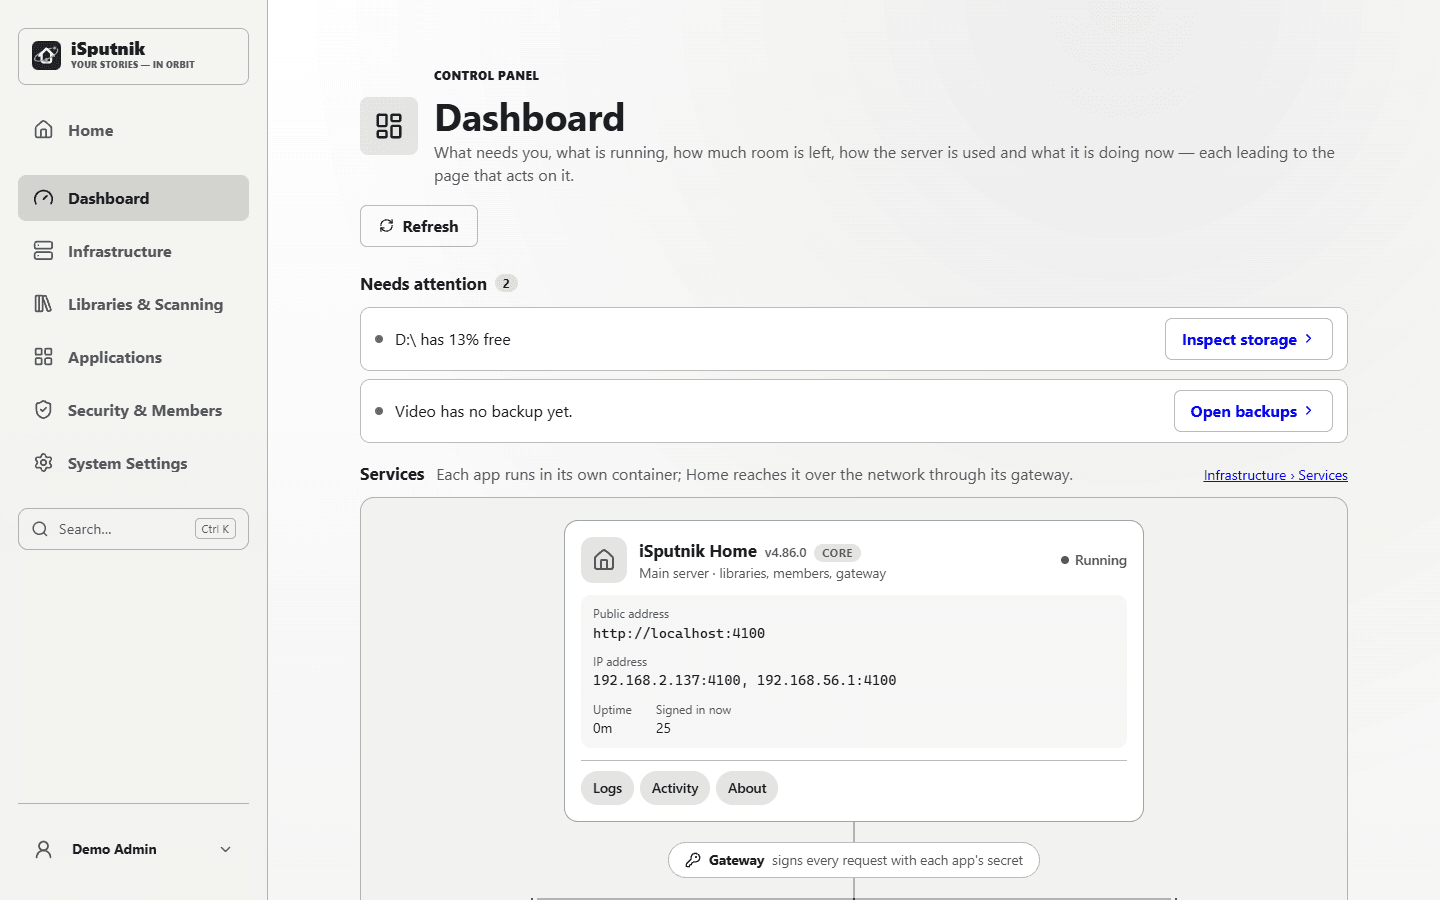
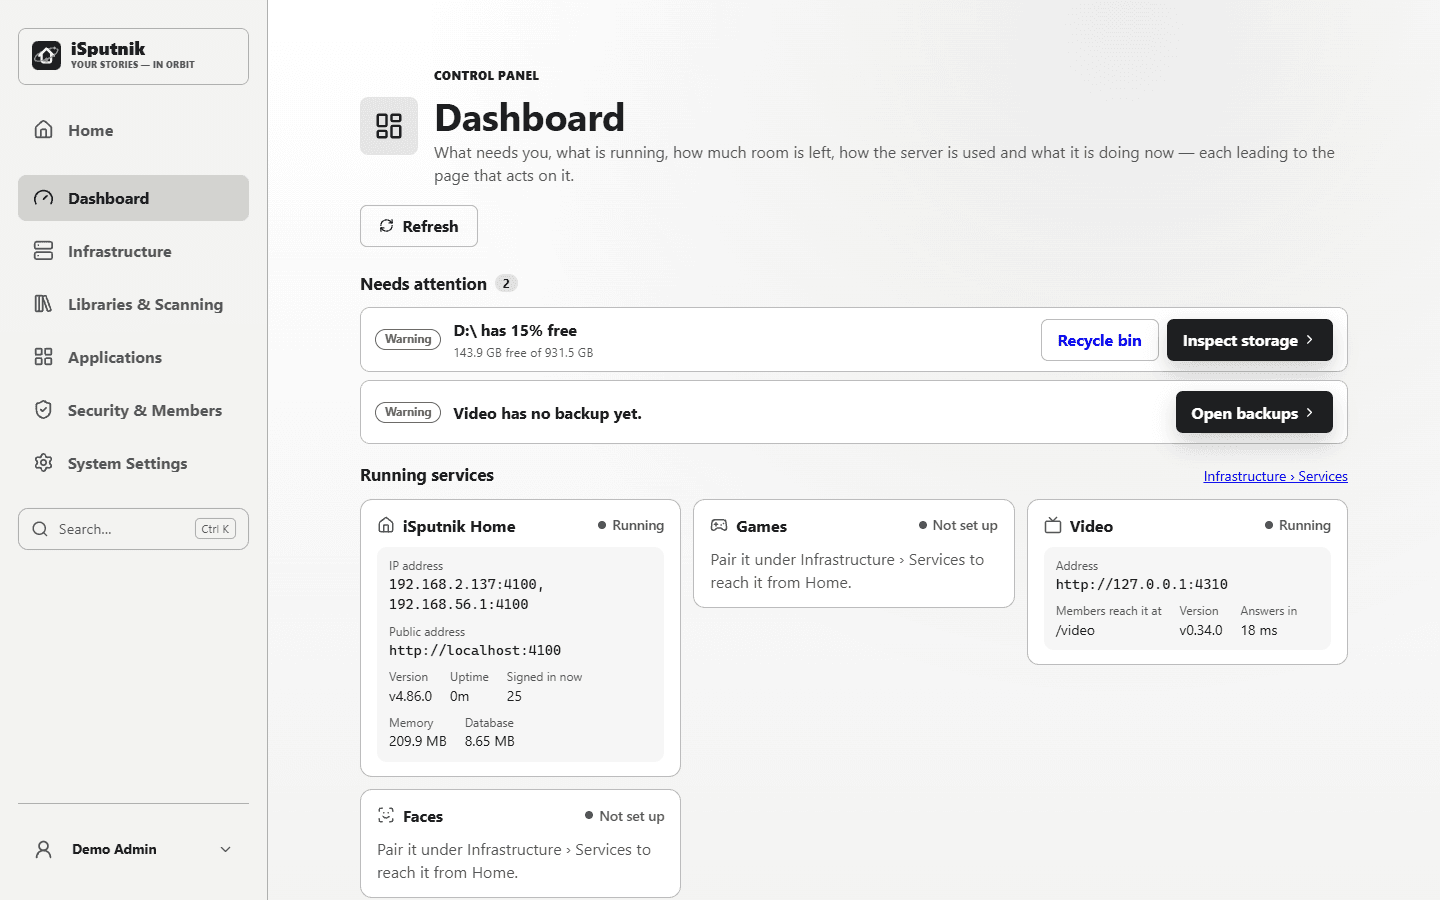
feat(control): Dashboard service tiles with addresses; diagram moves to Services
Running services on the Dashboard is a tile per service, like the mockup: its
state, version and where it is - iSputnik's network addresses with the port and
its public address, uptime, sign-ins, memory and database; a container's
address, the path members use, version and response time. A tile opens that
service's card on Infrastructure > Services, which now opens with the
connection diagram ("How they connect"). Needs attention rows carry a severity,
a title with a detail line, and a second action where there is one (a
container's Logs, the Recycle bin for a full drive, Blocked IPs after failed
sign-ins).

diff --git a/apps/web/src/features/control/sections/dashboard/Overview.tsx b/apps/web/src/features/control/sections/dashboard/Overview.tsx
@@ -2,12 +2,9 @@ import { useTranslation } from "react-i18next";
 import {
   Archive,
   ChevronRight,
-  Clock3,
-  Database,
   Gamepad2,
   House,
   KeyRound,
-  MemoryStick,
   ScanFace,
   Tv,
   type LucideIcon
@@ -102,10 +99,15 @@ const folderNames = (group: DiskGroup) => [...new Set(group.folders.map((folder)
 
 interface Issue {
   tone: Tone;
+  /** The row's bold line: what is wrong. */
   text: string;
+  /** One line under it: the number or the place that says how bad. */
+  detail?: string;
   href: string;
   /** The button that acts on it: "Open connection", "Open sign-ins". */
   action: string;
+  /** A second way to deal with it: the logs, the recycle bin, the block list. */
+  second?: { href: string; label: string };
 }
 
 export function Overview({
@@ -132,8 +134,8 @@ export function Overview({
   const issues: Issue[] = [];
   for (const app of apps ?? []) {
     const state = appState(app);
-    if (state === "down") issues.push({ tone: "danger", text: t("controlDash:overview.issueAppDown", { app: appName(app.id) }), href: appPageHref("appsSetup", app.id), action: t("controlDash:dashboard.actionConnection") });
-    if (state === "secret") issues.push({ tone: "danger", text: t("controlDash:overview.issueAppSecret", { app: appName(app.id) }), href: appPageHref("appsSetup", app.id), action: t("controlDash:dashboard.actionConnection") });
+    if (state === "down") issues.push({ tone: "danger", text: t("controlDash:overview.issueAppDown", { app: appName(app.id) }), href: appPageHref("appsSetup", app.id), action: t("controlDash:dashboard.actionConnection"), detail: app.url ? t("controlDash:dashboard.detailAppDown", { url: app.url }) : undefined, second: { href: logsHref({ app: app.id }), label: t("controlDash:dashboard.actionLogs") } });
+    if (state === "secret") issues.push({ tone: "danger", text: t("controlDash:overview.issueAppSecret", { app: appName(app.id) }), href: appPageHref("appsSetup", app.id), action: t("controlDash:dashboard.actionConnection"), second: { href: logsHref({ app: app.id }), label: t("controlDash:dashboard.actionLogs") } });
   }
   const disks = groupDisks(overview, appDisks);
   for (const disk of disks) {
@@ -143,7 +145,9 @@ export function Overview({
         tone,
         text: t("controlDash:overview.issueDiskLow", { mount: folderNames(disk), share: Math.round((disk.freeBytes / disk.totalBytes) * 100) }),
         href: storageHref(),
-        action: t("controlDash:dashboard.actionStorage")
+        action: t("controlDash:dashboard.actionStorage"),
+        detail: t("controlDash:dashboard.detailDisk", { free: formatBytes(disk.freeBytes), total: formatBytes(disk.totalBytes) }),
+        second: { href: controlHref("recycleBin"), label: t("controlDash:dashboard.actionRecycle") }
       });
     }
   }
@@ -163,14 +167,14 @@ export function Overview({
     }
   }
   if (overview && overview.failedTasks24h > 0) {
-    issues.push({ tone: "warning", text: t("controlDash:overview.issueFailedTasks", { count: overview.failedTasks24h }), href: tasksHref({ status: "failed" }), action: t("controlDash:dashboard.actionTasks") });
+    issues.push({ tone: "warning", text: t("controlDash:overview.issueFailedTasks", { count: overview.failedTasks24h }), href: tasksHref({ status: "failed" }), action: t("controlDash:dashboard.actionTasks"), detail: t("controlDash:dashboard.detailLastDay") });
   }
   for (const app of apps ?? []) {
     const errors = appErrors[app.id];
-    if (errors) issues.push({ tone: "warning", text: t("controlDash:overview.issueAppErrors", { app: appName(app.id), count: errors }), href: logsHref({ app: app.id, level: "error" }), action: t("controlDash:dashboard.actionLogs") });
+    if (errors) issues.push({ tone: "warning", text: t("controlDash:overview.issueAppErrors", { app: appName(app.id), count: errors }), href: logsHref({ app: app.id, level: "error" }), action: t("controlDash:dashboard.actionLogs"), detail: t("controlDash:dashboard.detailLastDay") });
   }
   if (overview && overview.failedSignIns24h >= FAILED_SIGN_INS_NOTICE) {
-    issues.push({ tone: "warning", text: t("controlDash:overview.issueFailedSignIns", { count: overview.failedSignIns24h }), href: signInsHref({}), action: t("controlDash:dashboard.actionSignIns") });
+    issues.push({ tone: "warning", text: t("controlDash:overview.issueFailedSignIns", { count: overview.failedSignIns24h }), href: signInsHref({}), action: t("controlDash:dashboard.actionSignIns"), detail: t("controlDash:dashboard.detailLastDay"), second: { href: controlHref("securityBlocked"), label: t("controlDash:dashboard.actionBlocked") } });
   }
   issues.sort((a, b) => (a.tone === b.tone ? 0 : a.tone === "danger" ? -1 : 1));
 
@@ -199,12 +203,24 @@ export function Overview({
           <ul className="dash-attention">
             {issues.map((issue) => (
               <li key={issue.text}>
-                <span className={`dash-dot tone-${issue.tone}`} aria-hidden="true" />
-                <span className="dash-issue-text">{issue.text}</span>
-                <a href={issue.href} className="secondary-button compact-button" onClick={(event) => followRoute(event, issue.href)}>
-                  {issue.action}
-                  <ChevronRight size={15} aria-hidden="true" />
-                </a>
+                <span className={`dash-severity tone-${issue.tone}`}>
+                  {issue.tone === "danger" ? t("controlDash:dashboard.severity.urgent") : t("controlDash:dashboard.severity.warning")}
+                </span>
+                <span className="dash-issue-text">
+                  <strong>{issue.text}</strong>
+                  {issue.detail && <small>{issue.detail}</small>}
+                </span>
+                <span className="dash-issue-actions">
+                  {issue.second && (
+                    <a href={issue.second.href} className="secondary-button compact-button" onClick={(event) => followRoute(event, issue.second!.href)}>
+                      {issue.second.label}
+                    </a>
+                  )}
+                  <a href={issue.href} className="primary-button compact-button" onClick={(event) => followRoute(event, issue.href)}>
+                    {issue.action}
+                    <ChevronRight size={15} aria-hidden="true" />
+                  </a>
+                </span>
               </li>
             ))}
           </ul>
@@ -215,12 +231,7 @@ export function Overview({
         )}
       </section>
 
-      <Services status={status} overview={overview} apps={apps} />
-      <dl className="dash-stats dash-stats-row">
-        <Stat icon={MemoryStick} label={t("controlDash:system.memory")} value={formatBytes(status.memory.rssBytes)} />
-        <Stat icon={Database} label={t("controlDash:system.database")} value={formatBytes(status.databaseBytes)} />
-        <Stat icon={Clock3} label={t("controlDash:system.uptime")} value={formatUptime(status.uptimeSeconds)} />
-      </dl>
+      <ServiceTiles status={status} overview={overview} apps={apps} />
 
       <section className="dash-section" aria-labelledby="dash-storage">
         <DashSectionHead id="dash-storage" icon={DASH_ICONS.storage} title={t("controlDash:overview.storageTitle")} link={{ href: storageHref(), label: t("controlDash:dashboard.storageSettingsLink") }} />
@@ -259,7 +270,85 @@ export function Overview({
 
 // ── Services: Home, its gateway, a branch per container ──────────────────────
 
-function Services({ status, overview, apps }: { status: SystemStatus; overview: DashboardOverview | null; apps: AppStatus[] | null }) {
+/** The Dashboard's Running services: a tile per service — its state, version, where
+ *  it is (addresses with their ports) and how fast it answers. A tile opens that
+ *  service's card on Infrastructure › Services. */
+function ServiceTiles({ status, overview, apps }: { status: SystemStatus; overview: DashboardOverview | null; apps: AppStatus[] | null }) {
+  const { t } = useTranslation(["common", "controlDash"]);
+  const appName = useAppName();
+  const servicesHref = controlHref("services");
+  const lan = overview?.home.addresses.length
+    ? overview.home.addresses.map((address) => `${address}:${overview.home.port}`).join(", ")
+    : overview ? `:${overview.home.port}` : "…";
+  const homeHref = `${servicesHref}#service-home`;
+  return (
+    <section className="dash-section" aria-labelledby="dash-services">
+      <div className="dash-section-head">
+        <h2 id="dash-services">{t("controlDash:dashboard.servicesTitle")}</h2>
+        <a href={servicesHref} onClick={(event) => followRoute(event, servicesHref)}>{t("controlDash:dashboard.servicesDetail")}</a>
+      </div>
+      <div className="dash-tiles">
+        <a className="dash-tile" href={homeHref} onClick={(event) => followRoute(event, homeHref)}>
+          <span className="dash-tile-head">
+            <House size={18} aria-hidden="true" />
+            <strong>{t("controlDash:overview.homeName")}</strong>
+            <StateLabel tone="success" label={t("controlDash:overview.stateRunning")} />
+          </span>
+          <dl className="dash-facts dash-tile-facts">
+            <Fact label={t("controlDash:overview.ipAddress")} value={lan} line />
+            {overview?.home.publicUrl && <Fact label={t("controlDash:overview.publicAddress")} value={overview.home.publicUrl} line />}
+            <Fact label={t("controlDash:dashboard.version")} value={`v${status.version}`} />
+            <Fact label={t("controlDash:system.uptime")} value={formatUptime(status.uptimeSeconds)} />
+            <Fact label={t("controlDash:overview.signedIn")} value={formatNumber(status.activeSessions)} />
+            <Fact label={t("controlDash:system.memory")} value={formatBytes(status.memory.rssBytes)} />
+            <Fact label={t("controlDash:system.database")} value={formatBytes(status.databaseBytes)} />
+          </dl>
+        </a>
+        {apps === null && <p className="muted">{t("controlDash:overview.appsLoading")}</p>}
+        {(apps ?? []).map((app) => {
+          const state = appState(app);
+          const tone = STATE_TONE[state];
+          const Icon = APP_ICONS[app.id] ?? House;
+          const href = `${servicesHref}#service-${app.id}`;
+          const label = {
+            running: t("controlDash:overview.stateRunning"),
+            down: t("controlDash:overview.stateDown"),
+            secret: t("controlDash:overview.stateSecret"),
+            unset: t("controlDash:overview.stateUnset")
+          }[state];
+          return (
+            <a key={app.id} className={`dash-tile tone-${tone}`} href={href} onClick={(event) => followRoute(event, href)}>
+              <span className="dash-tile-head">
+                <Icon size={18} aria-hidden="true" />
+                <strong>{appName(app.id)}</strong>
+                <StateLabel tone={tone} label={label} />
+              </span>
+              {state === "unset" ? (
+                <span className="muted">{t("controlDash:overview.unsetNote")}</span>
+              ) : (
+                <dl className="dash-facts dash-tile-facts">
+                  <Fact label={t("controlDash:overview.address")} value={app.url ?? "—"} line />
+                  <Fact label={t("controlDash:dashboard.membersReach")} value={app.prefix} />
+                  <Fact label={t("controlDash:dashboard.version")} value={app.server?.version ? `v${app.server.version}` : "—"} />
+                  <Fact
+                    label={t("controlDash:dashboard.answersIn")}
+                    value={app.server?.roundTripMs != null ? `${app.server.roundTripMs} ms` : t("controlDash:overview.branchNoReply")}
+                    tone={app.server?.ok ? undefined : "warning"}
+                  />
+                </dl>
+              )}
+            </a>
+          );
+        })}
+      </div>
+    </section>
+  );
+}
+
+/** Home, its gateway and a branch per container, wired up — how the pieces connect.
+ *  Infrastructure › Services opens with it (control panel v2); the Dashboard keeps
+ *  the compact ServiceTiles below. */
+export function ServicesDiagram({ status, overview, apps, onServicesPage = false }: { status: SystemStatus; overview: DashboardOverview | null; apps: AppStatus[] | null; onServicesPage?: boolean }) {
   const { t } = useTranslation(["common", "controlDash"]);
   const homeAddress = overview?.home.addresses.length
     ? overview.home.addresses.map((address) => `${address}:${overview.home.port}`).join(", ")
@@ -268,9 +357,9 @@ function Services({ status, overview, apps }: { status: SystemStatus; overview: 
   return (
     <section className="dash-section" aria-labelledby="dash-services">
       <div className="dash-section-head">
-        <h2 id="dash-services">{t("controlDash:overview.servicesTitle")}</h2>
+        <h2 id="dash-services">{onServicesPage ? t("controlDash:dashboard.diagramTitle") : t("controlDash:overview.servicesTitle")}</h2>
         <span className="muted">{t("controlDash:overview.servicesNote")}</span>
-        <a href={controlHref("services")}>{t("controlDash:overview.servicesLink")}</a>
+        {!onServicesPage && <a href={controlHref("services")}>{t("controlDash:overview.servicesLink")}</a>}
       </div>
       <div className="dash-diagram">
         <article className="dash-node dash-home">
@@ -431,15 +520,6 @@ function Fact({ label, value, line, tone, title }: { label: string; value: strin
       >
         {value}
       </dd>
-    </div>
-  );
-}
-
-function Stat({ icon: Icon, label, value }: { icon: LucideIcon; label: string; value: string }) {
-  return (
-    <div>
-      <dt><Icon size={14} aria-hidden="true" />{label}</dt>
-      <dd>{value}</dd>
     </div>
   );
 }

diff --git a/apps/web/src/features/control/sections/ServicesSection.tsx b/apps/web/src/features/control/sections/ServicesSection.tsx
@@ -1,4 +1,4 @@
-import { useState } from "react";
+import { useEffect, useState } from "react";
 import { useTranslation } from "react-i18next";
 import { ArrowRight, Server } from "lucide-react";
 import { controlHref, followRoute } from "../../../router";
@@ -9,6 +9,9 @@ import { ControlSectionHead } from "../ControlSectionHead";
 import { appPageHref, logsHref } from "../links";
 import { isRunning, useAppName, useAppsStatus, type AppStatus } from "./AppsSection";
 import { useSystemStatus } from "./dashboard/useSystemStatus";
+import { ServicesDiagram } from "./dashboard/Overview";
+import type { DashboardOverview } from "./dashboard/useDashboardOverview";
+import { api } from "../../../api";
 
 // Infrastructure › Services (control panel v2): one card per service — this server
 // and each container beside it — saying whether it is up, how fast it answers and
@@ -57,6 +60,11 @@ export function ServicesSection() {
   // Which cards have been tested since the page opened: the result shows on them.
   const [tested, setTested] = useState<Record<string, boolean>>({});
   const [testing, setTesting] = useState<string | null>(null);
+  // Home's own addresses and port, for the diagram (the Dashboard reads the same).
+  const [overview, setOverview] = useState<DashboardOverview | null>(null);
+  useEffect(() => {
+    api<DashboardOverview>("/api/dashboard/overview").then(setOverview).catch(() => setOverview(null));
+  }, []);
 
   const test = async (id: string) => {
     setTesting(id);
@@ -77,9 +85,12 @@ export function ServicesSection() {
     <>
       <ControlSectionHead section="services" icon={<Server size={30} />} description={t("control:services.description")} />
       {error && <MessageBox tone="error" title={t("control:services.loadFailed")}>{error}</MessageBox>}
+      {/* How the pieces connect: Home, its gateway and a branch per container (the
+          Dashboard showed this until it took compact tiles instead). */}
+      {status && <ServicesDiagram status={status} overview={overview} apps={apps} onServicesPage />}
 
       <div className="organization-grid">
-        <section className="organization-card app-setup-card">
+        <section className="organization-card app-setup-card" id="service-home">
           <div className="service-card-head">
             <h2>{t("control:services.home")}</h2>
             <span className="app-status-pill is-ready">{t("control:services.state.running")}</span>
@@ -115,7 +126,7 @@ export function ServicesSection() {
           }
           const pairingHref = appPageHref("appsSetup", app.id);
           return (
-            <section key={app.id} className="organization-card app-setup-card">
+            <section key={app.id} id={`service-${app.id}`} className="organization-card app-setup-card">
               <div className="service-card-head">
                 <h2>{appName(app.id)}</h2>
                 <span className={`app-status-pill ${state === "running" ? "is-ready" : state === "unset" ? "is-off" : "is-needsSetup"}`}>

diff --git a/apps/web/src/styles/admin.css b/apps/web/src/styles/admin.css
@@ -3551,3 +3551,52 @@ tr.control-anchor-flash > td {
 
 .service-facts dt { color: var(--muted); }
 .service-facts dd { margin: 0; text-align: right; }
+
+/* Dashboard (control panel v2): Needs attention rows carry a severity, a title with
+   a detail line, and up to two actions. */
+.dash-severity {
+  flex: 0 0 auto;
+  padding: 1px 9px;
+  border: 1px solid var(--tone);
+  border-radius: 999px;
+  color: var(--tone);
+  font-size: var(--text-2xs);
+  font-weight: 700;
+}
+
+.dash-attention .dash-issue-text { display: grid; gap: 2px; }
+.dash-attention .dash-issue-text small { color: var(--muted); font-size: var(--text-xs); }
+.dash-issue-actions { display: flex; flex-wrap: wrap; gap: 8px; }
+.dash-issue-actions a { display: inline-flex; align-items: center; gap: 4px; }
+
+/* Running services: a tile per service, its addresses and ports on it. */
+.dash-tiles {
+  display: grid;
+  grid-template-columns: repeat(auto-fill, minmax(280px, 1fr));
+  gap: 12px;
+}
+
+.dash-tile {
+  display: grid;
+  align-content: start;
+  gap: 10px;
+  min-width: 0;
+  padding: 14px 16px;
+  border: 1px solid var(--line);
+  border-radius: 12px;
+  background: var(--surface-raised);
+  color: inherit;
+  text-decoration: none;
+}
+
+.dash-tile:hover,
+.dash-tile:focus-visible { border-color: var(--accent); outline: 0; }
+
+.dash-tile-head { display: flex; align-items: center; gap: 8px; min-width: 0; }
+.dash-tile-head strong { flex: 1 1 auto; min-width: 0; overflow: hidden; text-overflow: ellipsis; white-space: nowrap; }
+.dash-tile-head > svg { flex: 0 0 auto; color: var(--muted); }
+.dash-tile-facts { gap: 8px 18px; }
+.dash-tile { grid-template-columns: minmax(0, 1fr); }
+/* Addresses are why the tile is there: shown whole, wrapping, never cut. */
+.dash-tile .dash-fact-line dd { white-space: normal; overflow-wrap: anywhere; }
+.dash-tiles { align-items: start; }

diff --git a/docs/users/control-panel.md b/docs/users/control-panel.md
@@ -60,11 +60,16 @@ Five sections, from the top, each leading to the page that acts on it:
 
 1. **Needs attention** — what wants you, worst first: a container down, a drive
    running low, no recent backup, failed tasks, errors in a container's log, a run of
-   failed sign-ins. Each row has the button that deals with it (**Open connection**,
-   **Inspect storage**, **Open backups**…). When nothing does, one line says so.
-2. **Running services** — iSputnik and each container beside it, how they connect
-   and their versions, with the server's memory, database size and uptime. Each card
-   links to its connection and its logs.
+   failed sign-ins. Each row says how urgent it is, what is wrong with a line of detail
+   under it, and the button that deals with it (**Open connection**, **Inspect
+   storage**, **Open backups**…) — with a second where there is one (a container's
+   **Logs**, the **Recycle bin** for a full drive, **Blocked IPs** after failed
+   sign-ins). When nothing needs you, one line says so.
+2. **Running services** — a tile for iSputnik and one for each container. iSputnik's
+   shows its addresses on your network with the port, its public address, version,
+   uptime, how many are signed in, memory and database size; a container's shows the
+   address iSputnik reaches it on, the path members use (`/video`), its version and
+   how fast it answered. A tile opens that service's card on [Services](#services).
 3. **Storage** — one bar per drive. Folders on the same drive, even in different
    containers, share its bar and are named on it, so a drive never appears twice. The
    bar is split by what uses it: library media, app data, thumbnails and cache,
@@ -95,7 +100,9 @@ narrowed to itself.
 
 ### Services
 
-A card for this server and one for each container beside it — Video, Faces, Games:
+It opens with how the pieces connect — iSputnik, the gateway that signs every
+request, and a branch to each container with its address and how it answers — then
+a card for this server and one for each container beside it — Video, Faces, Games:
 whether it is up, its version, how fast it answers and what uses it, with **Test
 connection** and its **Logs**. **Pairing** on a card opens that container's own page:
 its address, its pairing secret, and **Forget**. Setting them up has
